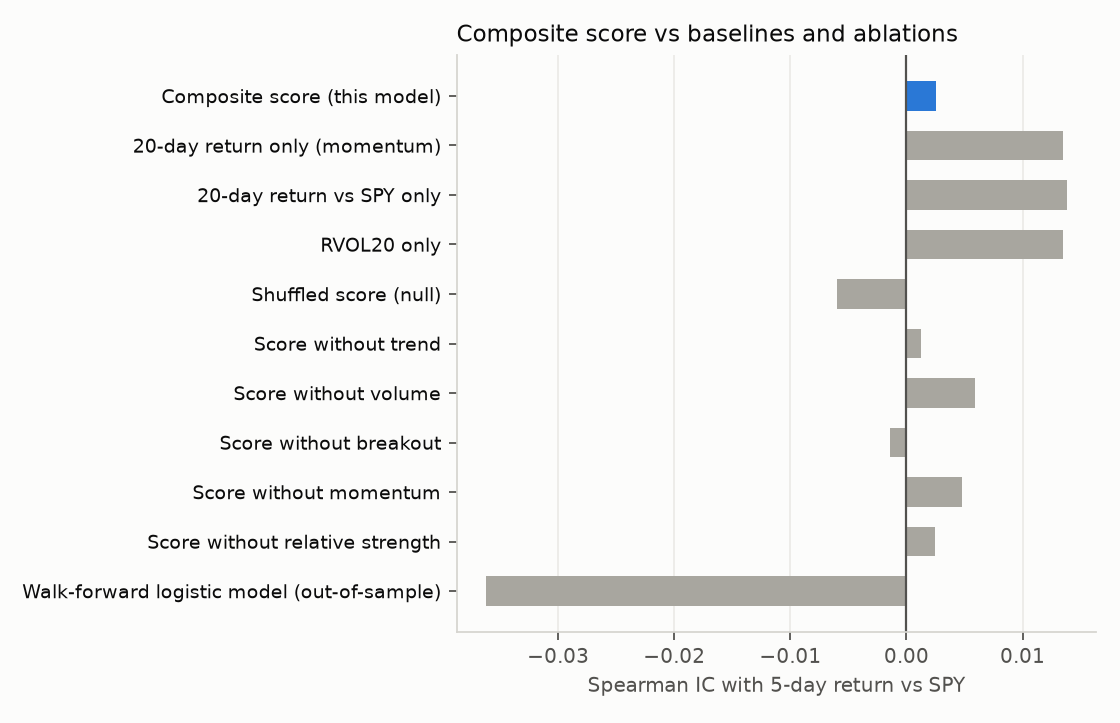
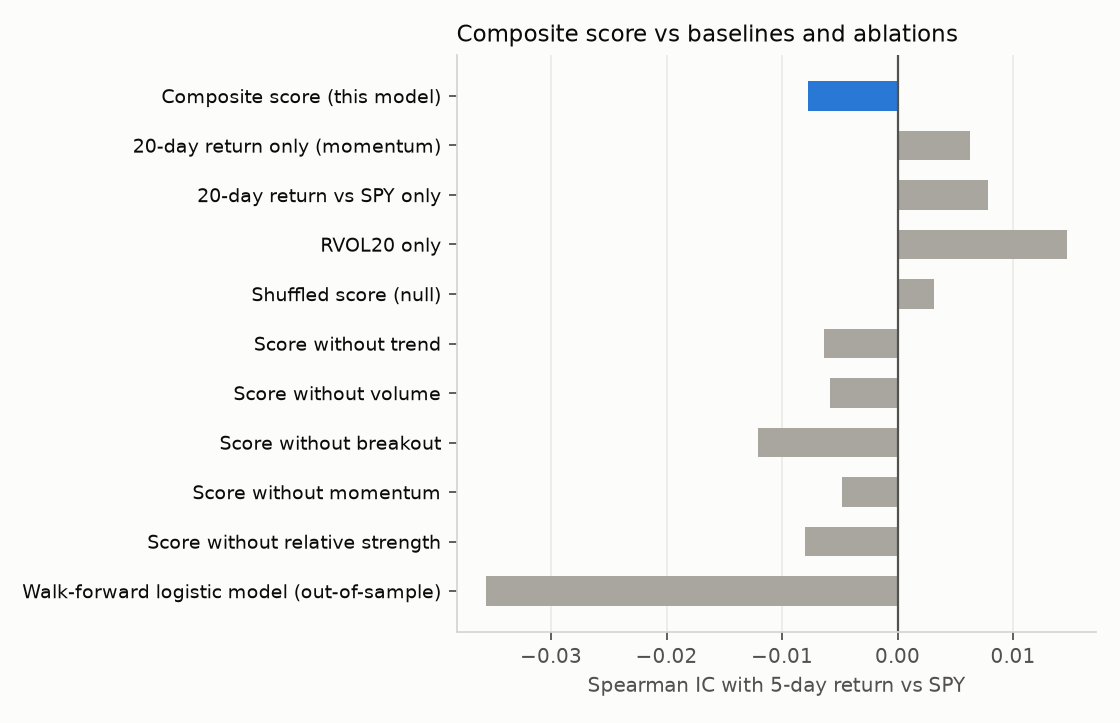
Signal evaluation for 2026-11-05

diff --git a/docs/evaluation.md b/docs/evaluation.md
@@ -6,14 +6,14 @@ performance relative to the S&P 500 over the next 5 trading days?**
 
 ## Summary
 
-*Last evaluated 2026-11-04 on 9,294 ticker-days (2021-12-03 to 2026-10-27), 5-day horizon, data: yahoo.*
+*Last evaluated 2026-11-05 on 10,601 ticker-days (2021-12-06 to 2026-10-28), 5-day horizon, data: yahoo.*
 
 | Metric | Estimate | 95% CI |
 |---|---:|---:|
-| Rank IC: score vs forward return over SPY | +0.003 | [-0.051, +0.047] |
-| Rank IC, non-overlapping windows only | +0.027 | |
-| Mean return gap: POSITIVE-or-better minus WEAK | +0.47% | [-0.39%, +1.16%] |
-| Out-of-sample AUC: hand weights vs learned weights | 0.493 vs 0.488 | |
+| Rank IC: score vs forward return over SPY | -0.008 | [-0.060, +0.038] |
+| Rank IC, non-overlapping windows only | +0.005 | |
+| Mean return gap: POSITIVE-or-better minus WEAK | +0.30% | [-0.47%, +0.93%] |
+| Out-of-sample AUC: hand weights vs learned weights | 0.487 vs 0.491 | |
 
 The 95% interval for the IC includes zero, so the data do not support a claim that the score predicts forward relative returns. That is a legitimate finding: the score is useful as a description of today's move, not as a forecast.
 
@@ -21,8 +21,8 @@ The 95% interval for the IC includes zero, so the data do not support a claim th
 
 ## Setup
 
-- **Universe:** ALAB, AMD, ETN, FSLR, GOOG, MRVL, NVDA, SKHY, TSLA; benchmark SPY.
-- **Sample:** 1,229 trading days, 9,294 ticker-days with a full score.
+- **Universe:** ALAB, AMD, AMZN, ETN, FSLR, GOOG, MRVL, NVDA, SKHY, SPCX, TSLA; benchmark SPY.
+- **Sample:** 1,229 trading days, 10,601 ticker-days with a full score.
   Rows labelled *INSUFFICIENT DATA* (too little history, e.g. right after an IPO) are excluded.
 - **Target:** 5-day forward return minus SPY's forward return over the same days.
 - **No look-ahead:** every indicator at day *t* uses data through the close of *t* only;
@@ -37,10 +37,10 @@ The 95% interval for the IC includes zero, so the data do not support a claim th
 
 | label | n | mean | ci_lo | ci_hi | median | hit_rate |
 |---|---:|---:|---:|---:|---:|---:|
-| STRONG PRICE/VOLUME | 740 | +0.98% | +0.09% | +2.16% | +0.32% | 52.7% |
-| POSITIVE | 1,806 | +0.62% | +0.02% | +1.22% | +0.04% | 50.6% |
-| WATCH | 1,856 | +0.55% | -0.06% | +1.27% | +0.29% | 51.9% |
-| WEAK | 4,892 | +0.26% | -0.21% | +0.81% | +0.08% | 50.8% |
+| STRONG PRICE/VOLUME | 828 | +0.80% | -0.02% | +1.84% | +0.20% | 51.9% |
+| POSITIVE | 2,114 | +0.48% | -0.10% | +1.07% | -0.05% | 49.6% |
+| WATCH | 2,144 | +0.46% | -0.04% | +1.18% | +0.21% | 51.4% |
+| WEAK | 5,515 | +0.27% | -0.20% | +0.81% | +0.10% | 51.1% |
 
 ## Stability
 
@@ -50,26 +50,28 @@ The full-sample IC can hide periods where the relationship flips sign.
 
 | year | n | ic |
 |---|---:|---:|
-| 2021 | 140 | +0.113 |
-| 2022 | 1,757 | -0.006 |
-| 2023 | 1,750 | -0.109 |
-| 2024 | 1,942 | +0.043 |
-| 2025 | 2,000 | -0.010 |
-| 2026 | 1,705 | -0.032 |
+| 2021 | 152 | +0.078 |
+| 2022 | 2,008 | -0.024 |
+| 2023 | 2,000 | -0.121 |
+| 2024 | 2,194 | +0.038 |
+| 2025 | 2,250 | -0.019 |
+| 2026 | 1,997 | -0.051 |
 
 By ticker:
 
 | ticker | n | ic | first_date |
 |---|---:|---:|---:|
-| ALAB | 634 | +0.105 | 2024-04-18 |
-| AMD | 1,229 | +0.035 | 2021-12-03 |
-| ETN | 1,229 | -0.047 | 2021-12-03 |
-| FSLR | 1,229 | -0.046 | 2021-12-03 |
-| GOOG | 1,229 | -0.001 | 2021-12-03 |
-| MRVL | 1,229 | -0.040 | 2021-12-03 |
-| NVDA | 1,229 | -0.031 | 2021-12-03 |
-| SKHY | 57 | -0.314 | 2026-08-07 |
-| TSLA | 1,229 | +0.036 | 2021-12-03 |
+| ALAB | 635 | +0.106 | 2024-04-18 |
+| AMD | 1,229 | +0.032 | 2021-12-06 |
+| AMZN | 1,229 | -0.092 | 2021-12-06 |
+| ETN | 1,229 | -0.049 | 2021-12-06 |
+| FSLR | 1,229 | -0.048 | 2021-12-06 |
+| GOOG | 1,229 | +0.001 | 2021-12-06 |
+| MRVL | 1,229 | -0.041 | 2021-12-06 |
+| NVDA | 1,229 | -0.033 | 2021-12-06 |
+| SKHY | 58 | -0.330 | 2026-08-07 |
+| SPCX | 76 | +0.027 | 2026-07-14 |
+| TSLA | 1,229 | +0.035 | 2021-12-06 |
 
 ## Baselines and ablation
 
@@ -80,19 +82,19 @@ re-scores the full history with one component removed and the rest re-weighted t
 
 | signal | ic |
 |---|---:|
-| Composite score (this model) | +0.003 |
-| 20-day return only (momentum) | +0.013 |
-| 20-day return vs SPY only | +0.014 |
-| RVOL20 only | +0.014 |
-| Shuffled score (null) | -0.006 |
+| Composite score (this model) | -0.008 |
+| 20-day return only (momentum) | +0.006 |
+| 20-day return vs SPY only | +0.008 |
+| RVOL20 only | +0.015 |
+| Shuffled score (null) | +0.003 |
 
 | removed | ic | change |
 |---|---:|---:|
-| trend | +0.001 | -0.001 |
-| volume | +0.006 | +0.003 |
-| breakout | -0.001 | -0.004 |
-| momentum | +0.005 | +0.002 |
-| relative_strength | +0.002 | -0.000 |
+| trend | -0.006 | +0.001 |
+| volume | -0.006 | +0.002 |
+| breakout | -0.012 | -0.004 |
+| momentum | -0.005 | +0.003 |
+| relative_strength | -0.008 | -0.000 |
 
 A negative *change* means removing the component hurts, i.e. it was contributing.
 
@@ -103,18 +105,18 @@ differently, a logistic regression on the five component scores is refit every q
 expanding window and used only to score later dates. A 5-day gap separates
 each training cut-off from the test period so overlapping targets cannot leak.
 
-Out-of-sample period: 2022-12-05 onward, 7,530 ticker-days.
+Out-of-sample period: 2022-12-06 onward, 8,585 ticker-days.
 
 | Model | AUC (target: beats SPY) | Spearman IC |
 |---|---:|---:|
-| Hand-weighted score | 0.493 | -0.009 |
-| Walk-forward logistic regression | 0.488 | -0.036 |
+| Hand-weighted score | 0.487 | -0.020 |
+| Walk-forward logistic regression | 0.491 | -0.036 |
 
 Learning the weights from data does not beat the hand-chosen weights out of sample. With this little data, the simpler fixed-weight model is preferable.
 
 ## Limitations
 
-- 9 stocks is a small, concentrated, highly correlated universe. Results may not
+- 11 stocks is a small, concentrated, highly correlated universe. Results may not
   generalise to other sectors or periods. Recent listings contribute only a few months of data.
 - Several baselines, ablations and a model are compared on the same data. Treat any single
   small difference as noise unless it holds up out of sample.

diff --git a/docs/premarket_evaluation.md b/docs/premarket_evaluation.md
@@ -1,4 +1,95 @@
 # Does the pre-market score predict the regular session?
 
-This page is generated by `scripts/evaluate_premarket.py` on real data. Run the
-**Weekly Signal Evaluation** workflow from the Actions tab to produce it.
+The [pre-market snapshot](premarket.md) describes how each stock is trading before the open.
+This page tests whether that description carries information about what happens next:
+**is a higher pre-market score followed by a better return from the 09:30 open to the 16:00
+close, relative to SPY over the same hours?**
+
+## Summary
+
+*Last evaluated 2026-11-05 on 5,864 ticker-days (2023-12-26 to 2026-11-04), pre-market bars through 09:00 ET, data: yahoo.*
+
+| Metric | Estimate | 95% CI |
+|---|---:|---:|
+| Rank IC: pre-market score vs open-to-close return over SPY | -0.030 | [-0.066, +0.002] |
+| Mean return gap: POSITIVE-or-better minus WEAK | -0.08% | [-0.28%, +0.11%] |
+| Rank IC: gap vs SPY alone (negative = gaps fade) | +0.000 | |
+
+The 95% interval includes zero, so the data do not show that the pre-market score predicts the regular session. It describes the pre-market well; it is not a forecast.
+
+
+## Setup
+
+- **Universe:** AMD, AMZN, ETN, FSLR, GOOG, MRVL, NVDA, SKHY, SPCX, TSLA; benchmark SPY.
+- **Sample:** 717 trading days, 5,864 ticker-days with a full pre-market score.
+  0 ticker-days with a gap larger than 40% were dropped as
+  likely data errors or corporate actions.
+- **Snapshot time:** pre-market bars that closed by 09:00 ET. Yahoo keeps
+  extended-hours history only at hourly resolution beyond ~60 days, so the evaluation uses hourly
+  bars; the live monitor uses 5-minute bars and runs at ~08:40 ET.
+- **Target:** open-to-close return minus SPY's open-to-close return. It begins after every input is
+  known, so there is no look-ahead. Daily context comes from the previous completed session.
+- **Uncertainty:** one-day targets do not overlap, but stocks move together within a day, so
+  intervals come from a block bootstrap over dates.
+
+## Returns by pre-market label
+
+![Open-to-close relative return by pre-market label](figures/premarket_label_returns.png)
+
+| label | n | mean | ci_lo | ci_hi | median | hit_rate |
+|---|---:|---:|---:|---:|---:|---:|
+| STRONG PRICE/VOLUME | 194 | -0.11% | -0.46% | +0.20% | +0.03% | 50.5% |
+| POSITIVE | 847 | -0.04% | -0.20% | +0.08% | -0.03% | 48.8% |
+| WATCH | 1,736 | +0.00% | -0.10% | +0.10% | -0.06% | 48.7% |
+| WEAK | 3,087 | +0.03% | -0.08% | +0.14% | +0.00% | 50.0% |
+
+## Baselines
+
+| signal | ic |
+|---|---:|
+| Pre-market score (this model) | -0.030 |
+| Gap vs SPY only | +0.000 |
+| Gap / ATR only | +0.001 |
+| Pre-market RVOL only | n/a |
+| Prior close end-of-day score only | -0.038 |
+| Shuffled score (null) | +0.006 |
+
+The gap rows answer a classic market-microstructure question directly: a negative IC means
+pre-market moves have tended to reverse after the open (gap fade); a positive IC means they
+have tended to extend (gap continuation).
+
+## Ablation
+
+| removed | ic | change |
+|---|---:|---:|
+| gap | -0.030 | -0.001 |
+| volume | -0.030 | +0.000 |
+| level | -0.034 | -0.004 |
+| context | -0.015 | +0.014 |
+
+A negative *change* means removing the component lowers the IC, i.e. it was contributing.
+
+## By ticker
+
+| ticker | n | ic | mean_gap_abs |
+|---|---:|---:|---:|
+| AMD | 715 | +0.008 | 1.54% |
+| AMZN | 715 | -0.053 | 0.81% |
+| ETN | 717 | -0.059 | 0.92% |
+| FSLR | 715 | -0.041 | 1.09% |
+| GOOG | 715 | -0.033 | 0.79% |
+| MRVL | 715 | -0.035 | 1.83% |
+| NVDA | 715 | -0.047 | 1.17% |
+| SKHY | 62 | +0.075 | 2.71% |
+| SPCX | 80 | -0.046 | 1.46% |
+| TSLA | 715 | -0.055 | 1.28% |
+
+## Limitations
+
+- About two years of hourly extended-hours data from Yahoo Finance, an unofficial source.
+  Extended-hours volume is sometimes missing; when it is, the volume component is left out and
+  the score re-normalised (see *coverage*).
+- Intraday prices are not dividend-adjusted; on ex-dividend days the measured gap includes the
+  dividend. The effect is small for this universe.
+- Open-to-close returns ignore the cost of trading at the open, when spreads are widest.
+- 10 correlated stocks; several comparisons on the same data. Not investment advice.

diff --git a/README.md b/README.md
@@ -49,14 +49,14 @@ The project has two halves, each run on end-of-day and on pre-market data:
 ### End-of-day score → next 5 days
 
 <!-- EVAL:START -->
-*Last evaluated 2026-11-04 on 9,294 ticker-days (2021-12-03 to 2026-10-27), 5-day horizon, data: yahoo.*
+*Last evaluated 2026-11-05 on 10,601 ticker-days (2021-12-06 to 2026-10-28), 5-day horizon, data: yahoo.*
 
 | Metric | Estimate | 95% CI |
 |---|---:|---:|
-| Rank IC: score vs forward return over SPY | +0.003 | [-0.051, +0.047] |
-| Rank IC, non-overlapping windows only | +0.027 | |
-| Mean return gap: POSITIVE-or-better minus WEAK | +0.47% | [-0.39%, +1.16%] |
-| Out-of-sample AUC: hand weights vs learned weights | 0.493 vs 0.488 | |
+| Rank IC: score vs forward return over SPY | -0.008 | [-0.060, +0.038] |
+| Rank IC, non-overlapping windows only | +0.005 | |
+| Mean return gap: POSITIVE-or-better minus WEAK | +0.30% | [-0.47%, +0.93%] |
+| Out-of-sample AUC: hand weights vs learned weights | 0.487 vs 0.491 | |
 
 The 95% interval for the IC includes zero, so the data do not support a claim that the score predicts forward relative returns. That is a legitimate finding: the score is useful as a description of today's move, not as a forecast.
 
@@ -66,7 +66,17 @@ Full write-up: [docs/evaluation.md](docs/evaluation.md)
 ### Pre-market score → same-day open-to-close
 
 <!-- PREMARKET-EVAL:START -->
-*Results appear here automatically after the next run of the **Weekly Signal Evaluation** workflow.*
+*Last evaluated 2026-11-05 on 5,864 ticker-days (2023-12-26 to 2026-11-04), pre-market bars through 09:00 ET, data: yahoo.*
+
+| Metric | Estimate | 95% CI |
+|---|---:|---:|
+| Rank IC: pre-market score vs open-to-close return over SPY | -0.030 | [-0.066, +0.002] |
+| Mean return gap: POSITIVE-or-better minus WEAK | -0.08% | [-0.28%, +0.11%] |
+| Rank IC: gap vs SPY alone (negative = gaps fade) | +0.000 | |
+
+The 95% interval includes zero, so the data do not show that the pre-market score predicts the regular session. It describes the pre-market well; it is not a forecast.
+
+Full write-up: [docs/premarket_evaluation.md](docs/premarket_evaluation.md)
 <!-- PREMARKET-EVAL:END -->
 
 ## Methods
